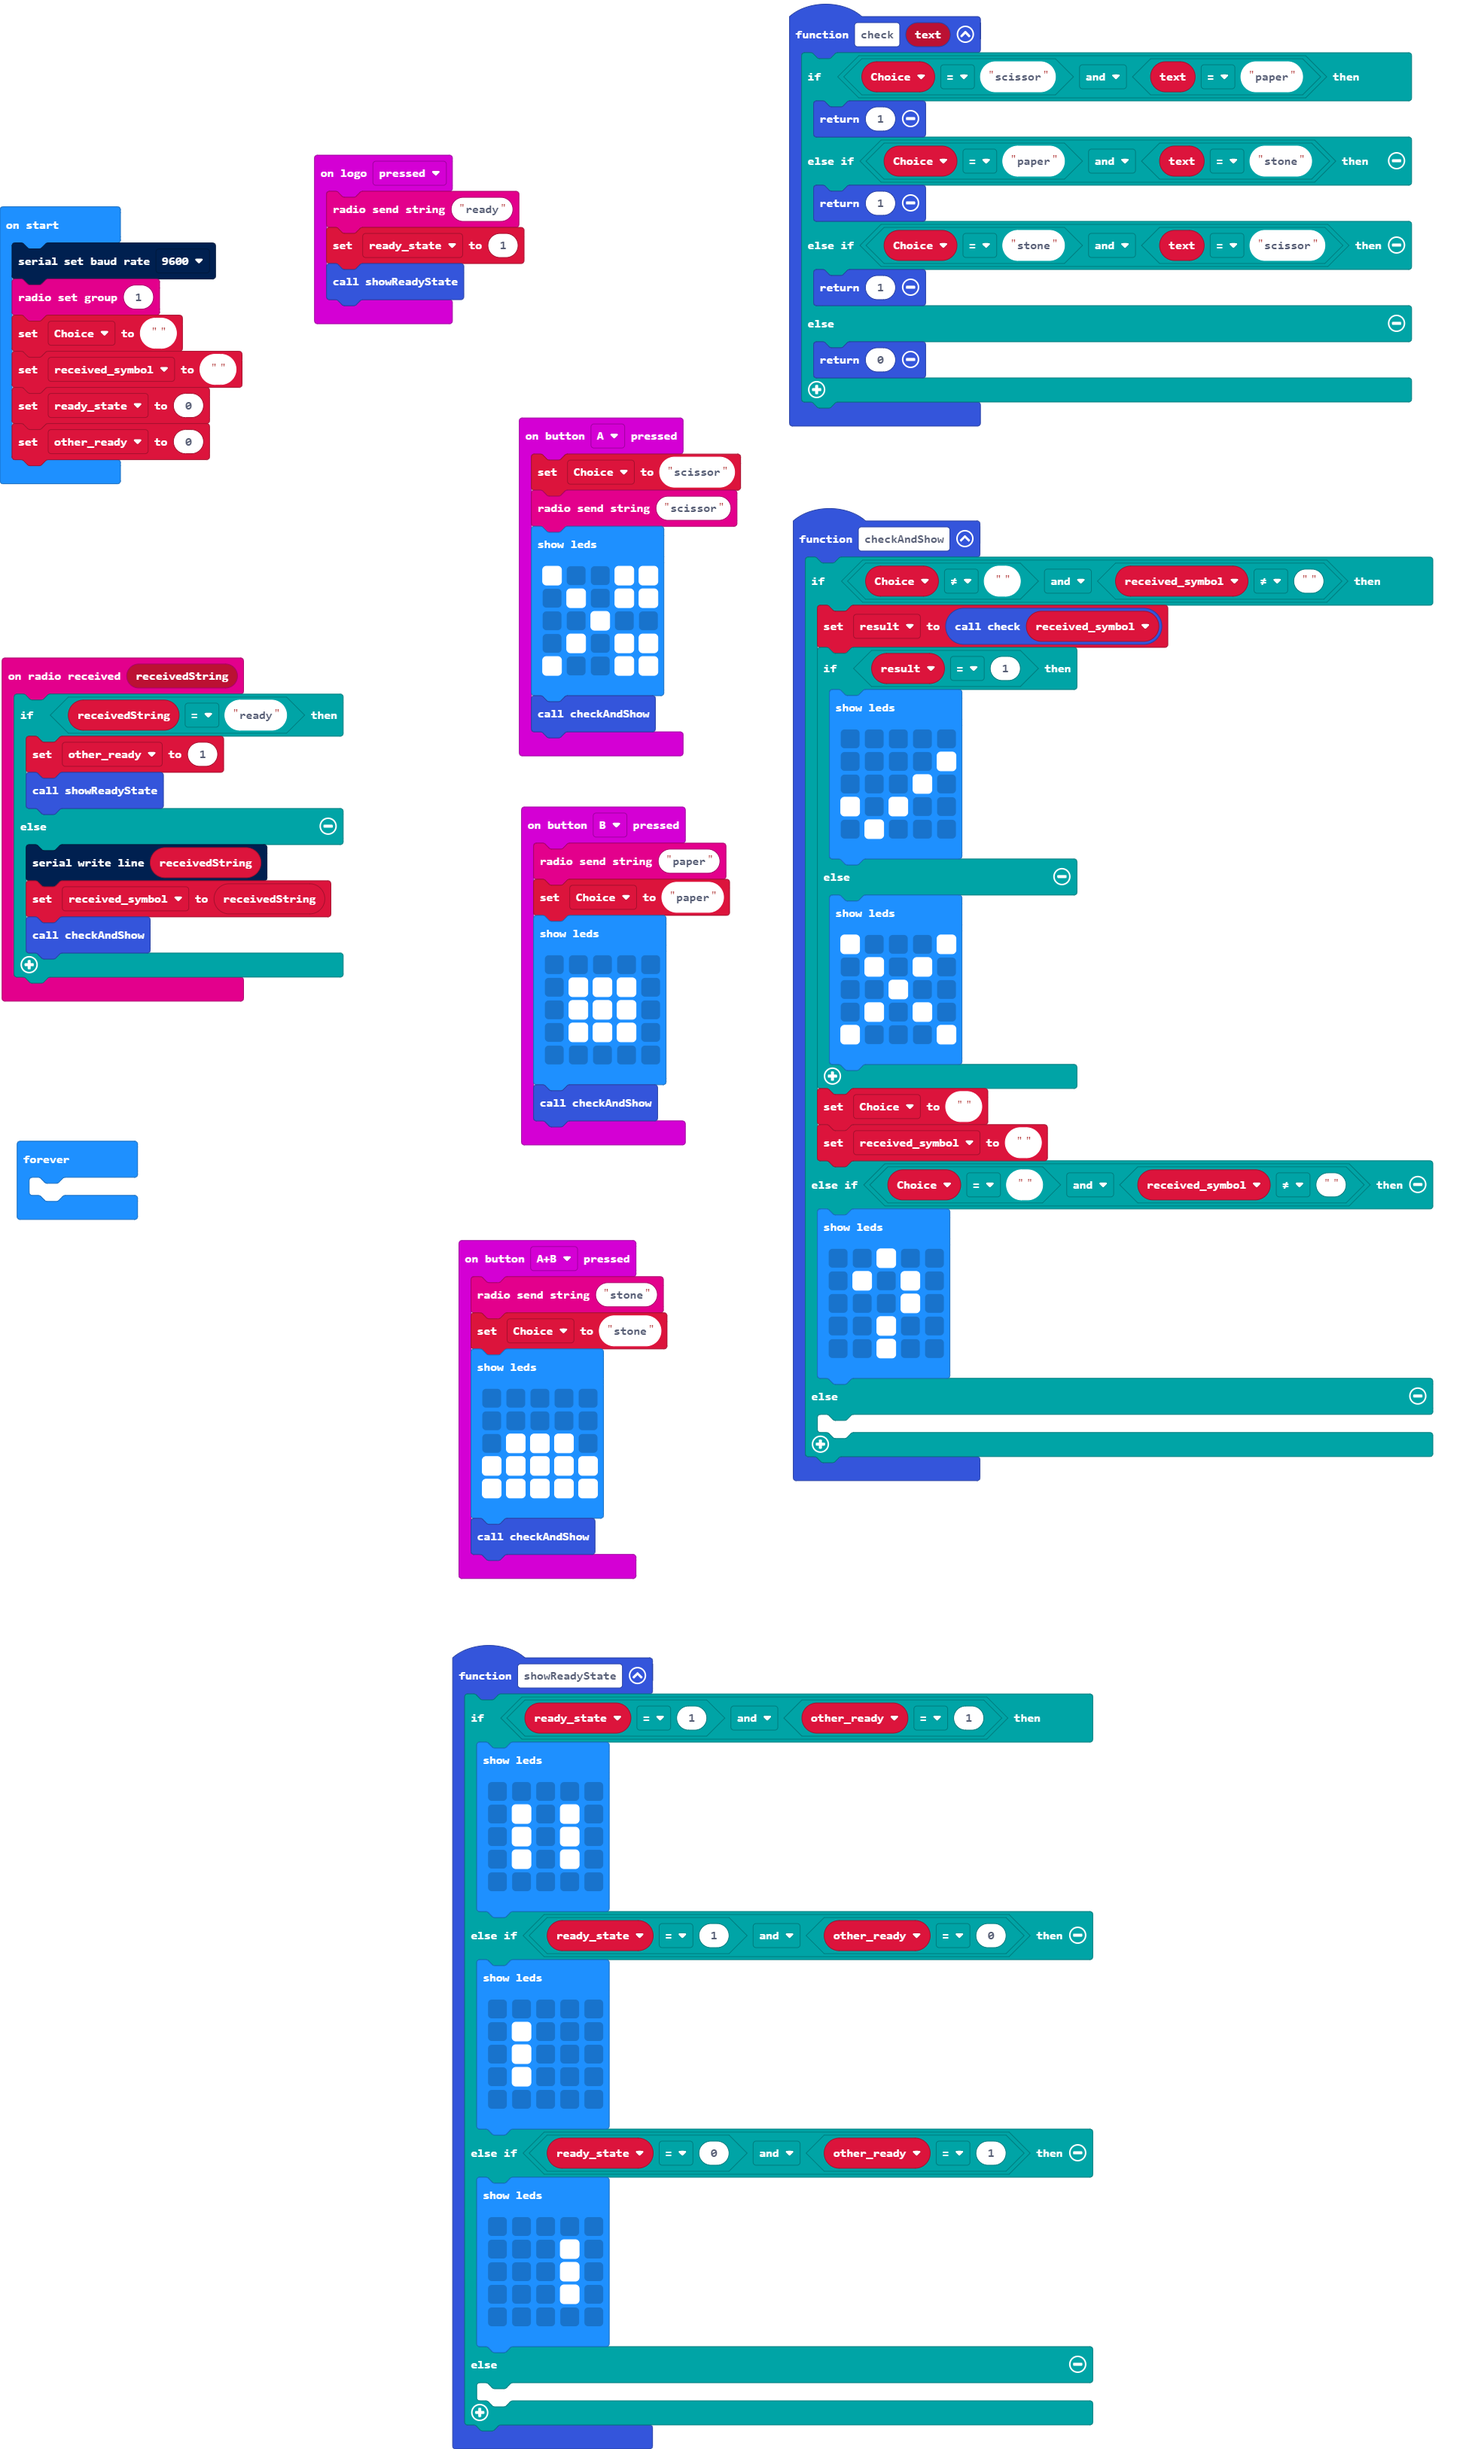
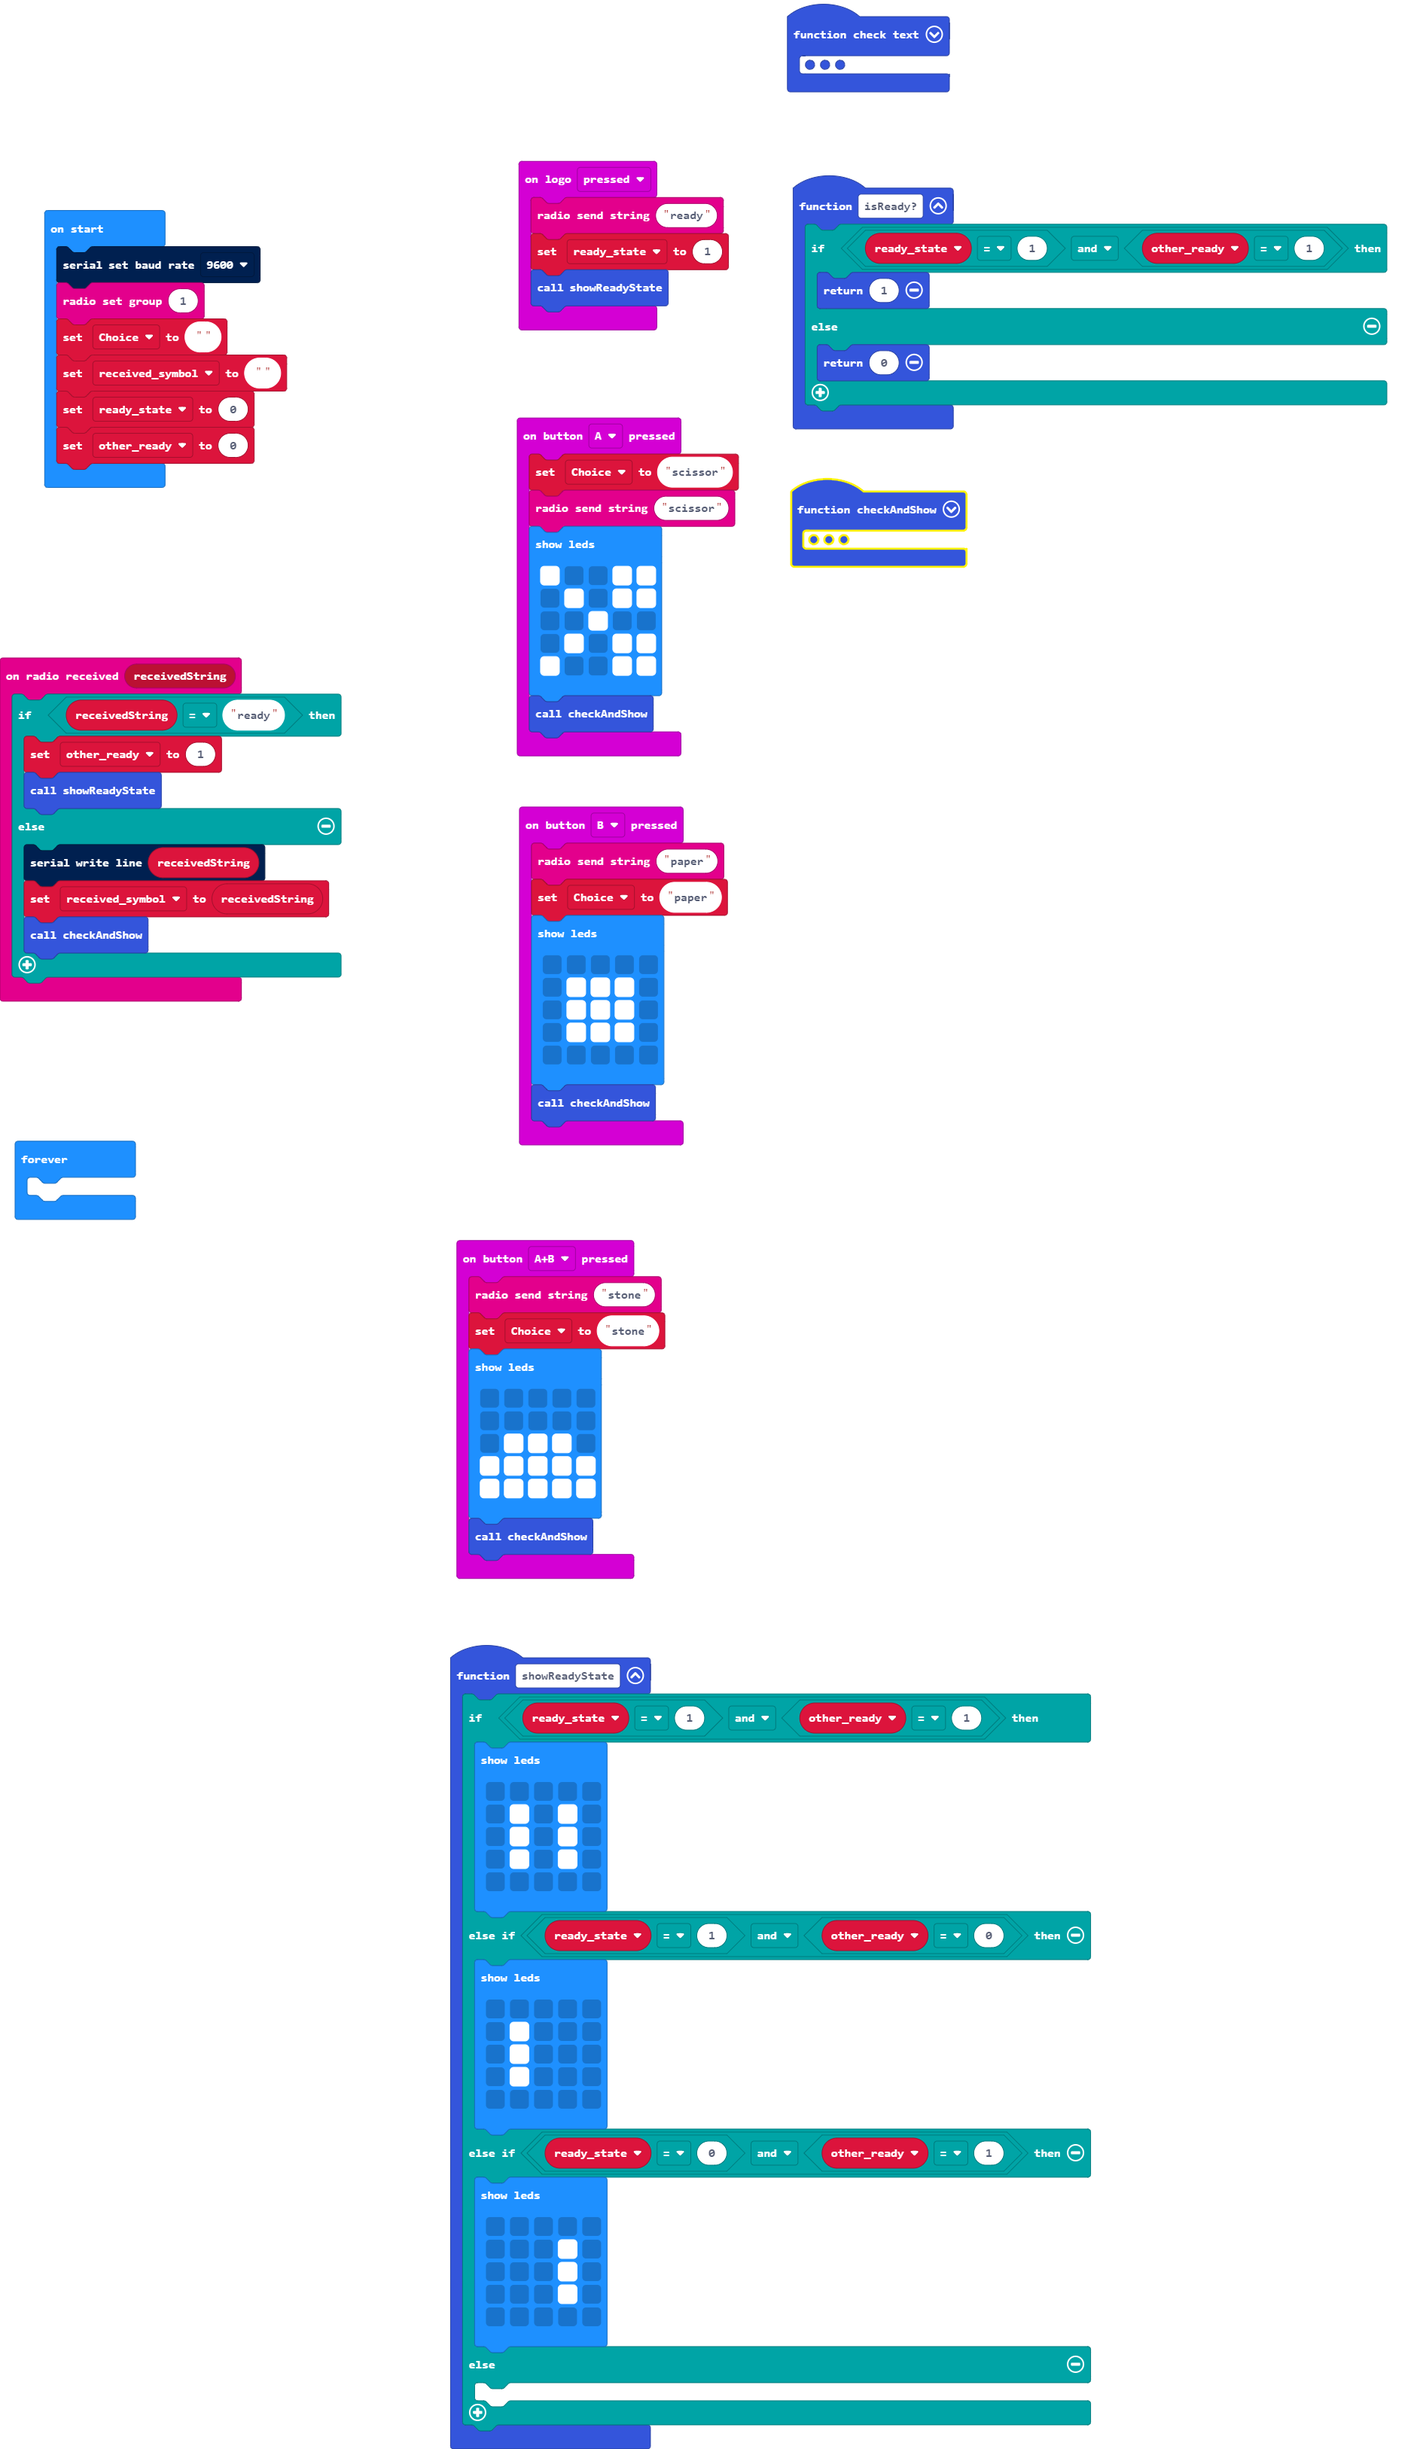
added isReady function

diff --git a/main.ts b/main.ts
@@ -58,6 +58,13 @@ input.onButtonPressed(Button.A, function () {
         `)
     checkAndShow()
 })
+function isReady () {
+    if (ready_state == 1 && other_ready == 1) {
+        return 1
+    } else {
+        return 0
+    }
+}
 function showReadyState () {
     if (ready_state == 1 && other_ready == 1) {
         basic.showLeds(`
